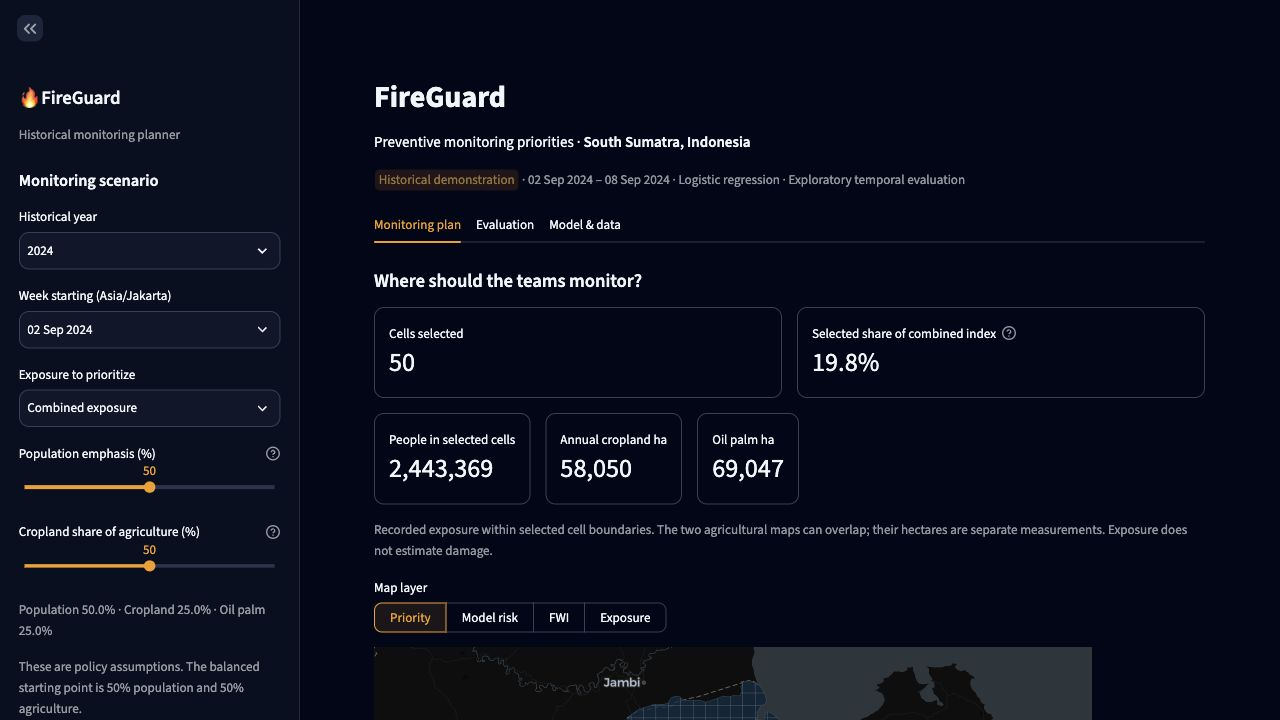
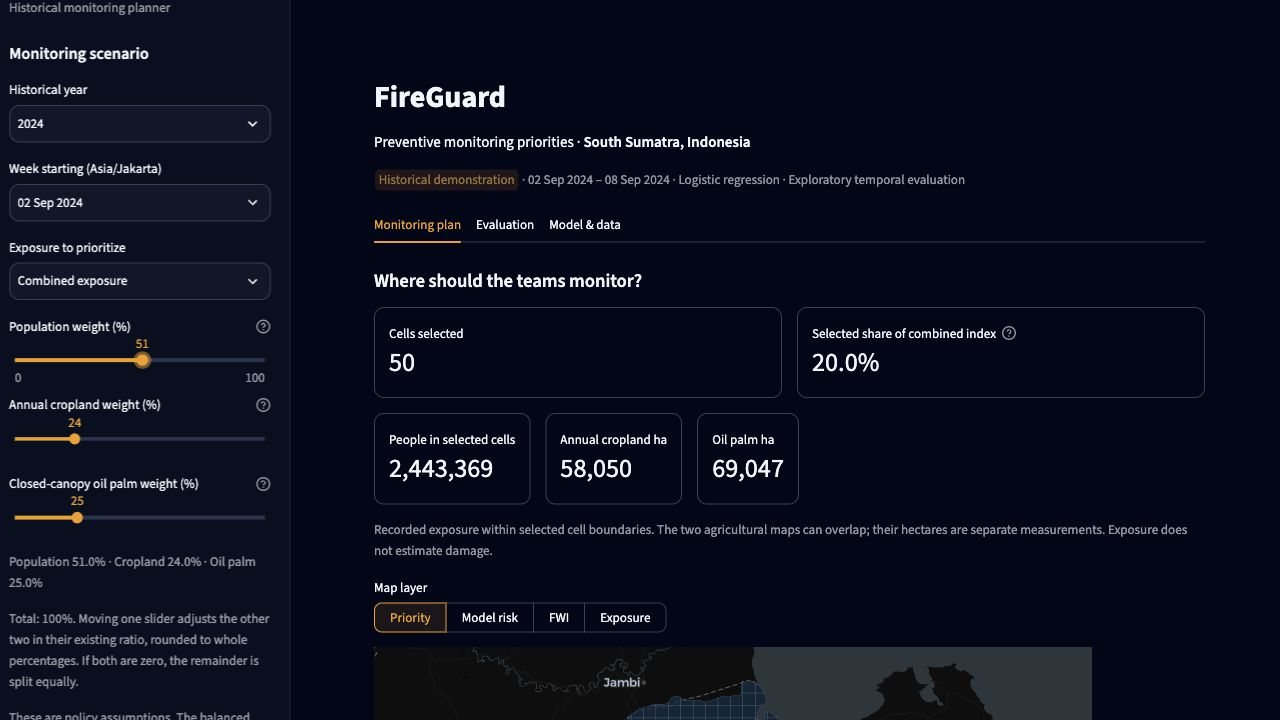
Refactor exposure weighting in dashboard: implement direct sliders for population, cropland, and oil palm. Update README and project brief to clarify new functionality and policy assumptions. Enhance tests for slider interactions and weight adjustments.

Changed region(s): [[0.0, 0.1222, 0.2188, 1.0], [0.0, 0.0, 0.125, 0.0917], [0.625, 0.4889, 0.6875, 0.5194]]

diff --git a/app.py b/app.py
@@ -40,6 +40,20 @@ def pct(value):
     return "Undefined" if pd.isna(value) else f"{value:.1%}"
 
 
+WEIGHT_KEYS = {"Population": "population_weight", "Annual cropland": "cropland_weight",
+               "Closed-canopy oil palm": "oil_palm_weight"}
+
+
+def rebalance_policy_weights(changed_key):
+    """Keep the edited percentage; distribute the remainder in the existing ratio."""
+    others = [key for key in WEIGHT_KEYS.values() if key != changed_key]
+    remainder = 100 - st.session_state[changed_key]
+    previous_total = sum(st.session_state[key] for key in others)
+    first = round(remainder * st.session_state[others[0]] / previous_total) if previous_total else round(remainder / 2)
+    st.session_state[others[0]] = first
+    st.session_state[others[1]] = remainder - first
+
+
 def map_figure(frame, grid, view, exposure_column, k, reveal=False):
     """Clipped decision cells, with markers at representative cell coordinates."""
     combined = exposure_column == "exposure_index"
@@ -120,15 +134,24 @@ with st.sidebar:
     combined = exposure_mode == COMBINED_MODE
     weights = None
     if combined:
-        population_weight = st.slider("Population emphasis (%)", 0, 100, 50, 5, key="population_weight",
-            help="The remaining emphasis goes to agriculture. This weights the index, not the share of teams.") / 100
-        cropland_weight = st.slider("Cropland share of agriculture (%)", 0, 100, 50, 5, key="cropland_weight",
-            disabled=population_weight == 1, help="The rest of the agricultural emphasis goes to closed-canopy oil palm.") / 100
-        weights = {"Population": population_weight,
-                   "Annual cropland": (1 - population_weight) * cropland_weight,
-                   "Closed-canopy oil palm": (1 - population_weight) * (1 - cropland_weight)}
+        if not st.session_state.get("_direct_exposure_weights", False):
+            # Preserve the policy of an already-open session using the old nested controls.
+            population = st.session_state.get("population_weight", 50)
+            cropland = round((100 - population) * st.session_state.get("cropland_weight", 50) / 100)
+            st.session_state.population_weight = population
+            st.session_state.cropland_weight = cropland
+            st.session_state.oil_palm_weight = 100 - population - cropland
+            st.session_state._direct_exposure_weights = True
+        weights = {}
+        for criterion, key in WEIGHT_KEYS.items():
+            weights[criterion] = st.slider(f"{criterion} weight (%)", 0, 100, step=1, key=key,
+                on_change=rebalance_policy_weights, args=(key,), persist_state="session",
+                help="Changing this weight adjusts the other two proportionally to keep a 100% total. "
+                     "This weights the exposure index, not the share of teams.") / 100
         st.caption(f"Population {weights['Population']:.1%} · Cropland {weights['Annual cropland']:.1%} · "
                    f"Oil palm {weights['Closed-canopy oil palm']:.1%}")
+        st.caption("Total: 100%. Moving one slider adjusts the other two in their existing ratio, rounded to whole percentages. "
+                   "If both are zero, the remainder is split equally.")
         st.caption("These are policy assumptions. The balanced starting point is 50% population and 50% agriculture.")
     k = st.slider("Available monitoring teams (K)", 1, 200, 50, key="budget",
                   help="One equal-cost cell inspection per team during the selected week. Travel routing is not modeled.")

diff --git a/tests/test_combined_policy.py b/tests/test_combined_policy.py
@@ -109,6 +109,18 @@ def test_combined_streamlit_sliders_update_queue_and_keep_risk_scores():
     app = AppTest.from_file(str(Path(__file__).parents[1] / "app.py"), default_timeout=30).run()
     app.selectbox(key="exposure").select("Combined exposure").run()
     assert not app.exception
+    def slider_weights():
+        return tuple(app.slider(key=key).value for key in
+                     ("population_weight", "cropland_weight", "oil_palm_weight"))
+
+    assert slider_weights() == (50, 25, 25)
+    app.slider(key="population_weight").set_value(60).run()
+    assert slider_weights() == (60, 20, 20)
+    app.slider(key="cropland_weight").set_value(45).run()
+    assert slider_weights() == (41, 45, 14)
+    app.slider(key="oil_palm_weight").set_value(70).run()
+    assert slider_weights() == (14, 16, 70)
+    assert not app.exception
     initial = app.dataframe[0].value
     assert len(initial) == 50
     assert (initial["Risk × exposure"] > 0).all()
@@ -117,6 +129,7 @@ def test_combined_streamlit_sliders_update_queue_and_keep_risk_scores():
     baseline = app.dataframe[1].value
     initial_capture = baseline.loc[baseline.Strategy == "FireGuard × exposure", "Population capture"].iloc[0]
     app.slider(key="population_weight").set_value(100).run()
+    assert slider_weights() == (100, 0, 0)
     assert not app.exception
     revised = app.dataframe[0].value
     assert revised.Cell.tolist() != old_ids
@@ -125,6 +138,11 @@ def test_combined_streamlit_sliders_update_queue_and_keep_risk_scores():
     new_baseline = app.dataframe[1].value
     assert new_baseline.loc[new_baseline.Strategy == "FireGuard × exposure", "Population capture"].iloc[0] != initial_capture
     app.slider(key="population_weight").set_value(0).run()
+    assert slider_weights() == (0, 50, 50)
     app.slider(key="cropland_weight").set_value(100).run()
+    assert slider_weights() == (0, 100, 0)
+    app.selectbox(key="exposure").select("Population").run()
+    app.selectbox(key="exposure").select("Combined exposure").run()
+    assert slider_weights() == (0, 100, 0)
     assert not app.exception
     assert len(app.dataframe[0].value) == 50

diff --git a/README.md b/README.md
@@ -40,9 +40,10 @@ deployment has not been created. For Streamlit hosting, the entrypoint is
 
 Combined exposure starts at **50% population, 25% annual cropland and 25% oil
 palm**. Each criterion is divided by its fixed total across the 949 eligible
-cells before weighting. The population-emphasis slider assigns the remaining
-weight to agriculture; the second slider splits that agricultural weight
-between cropland and oil palm. Weights always sum to 100%. These are declared
+cells before weighting. Three direct sliders control population, cropland and
+oil palm. Moving one redistributes the remaining weight proportionally between
+the other two, rounded to whole percentages; if both are zero, the remainder
+is split equally. Weights always sum to 100%. These are declared
 policy assumptions, not learned model parameters or percentages of teams.
 
 The evaluation tab reports capture for each exposure on the same selected
